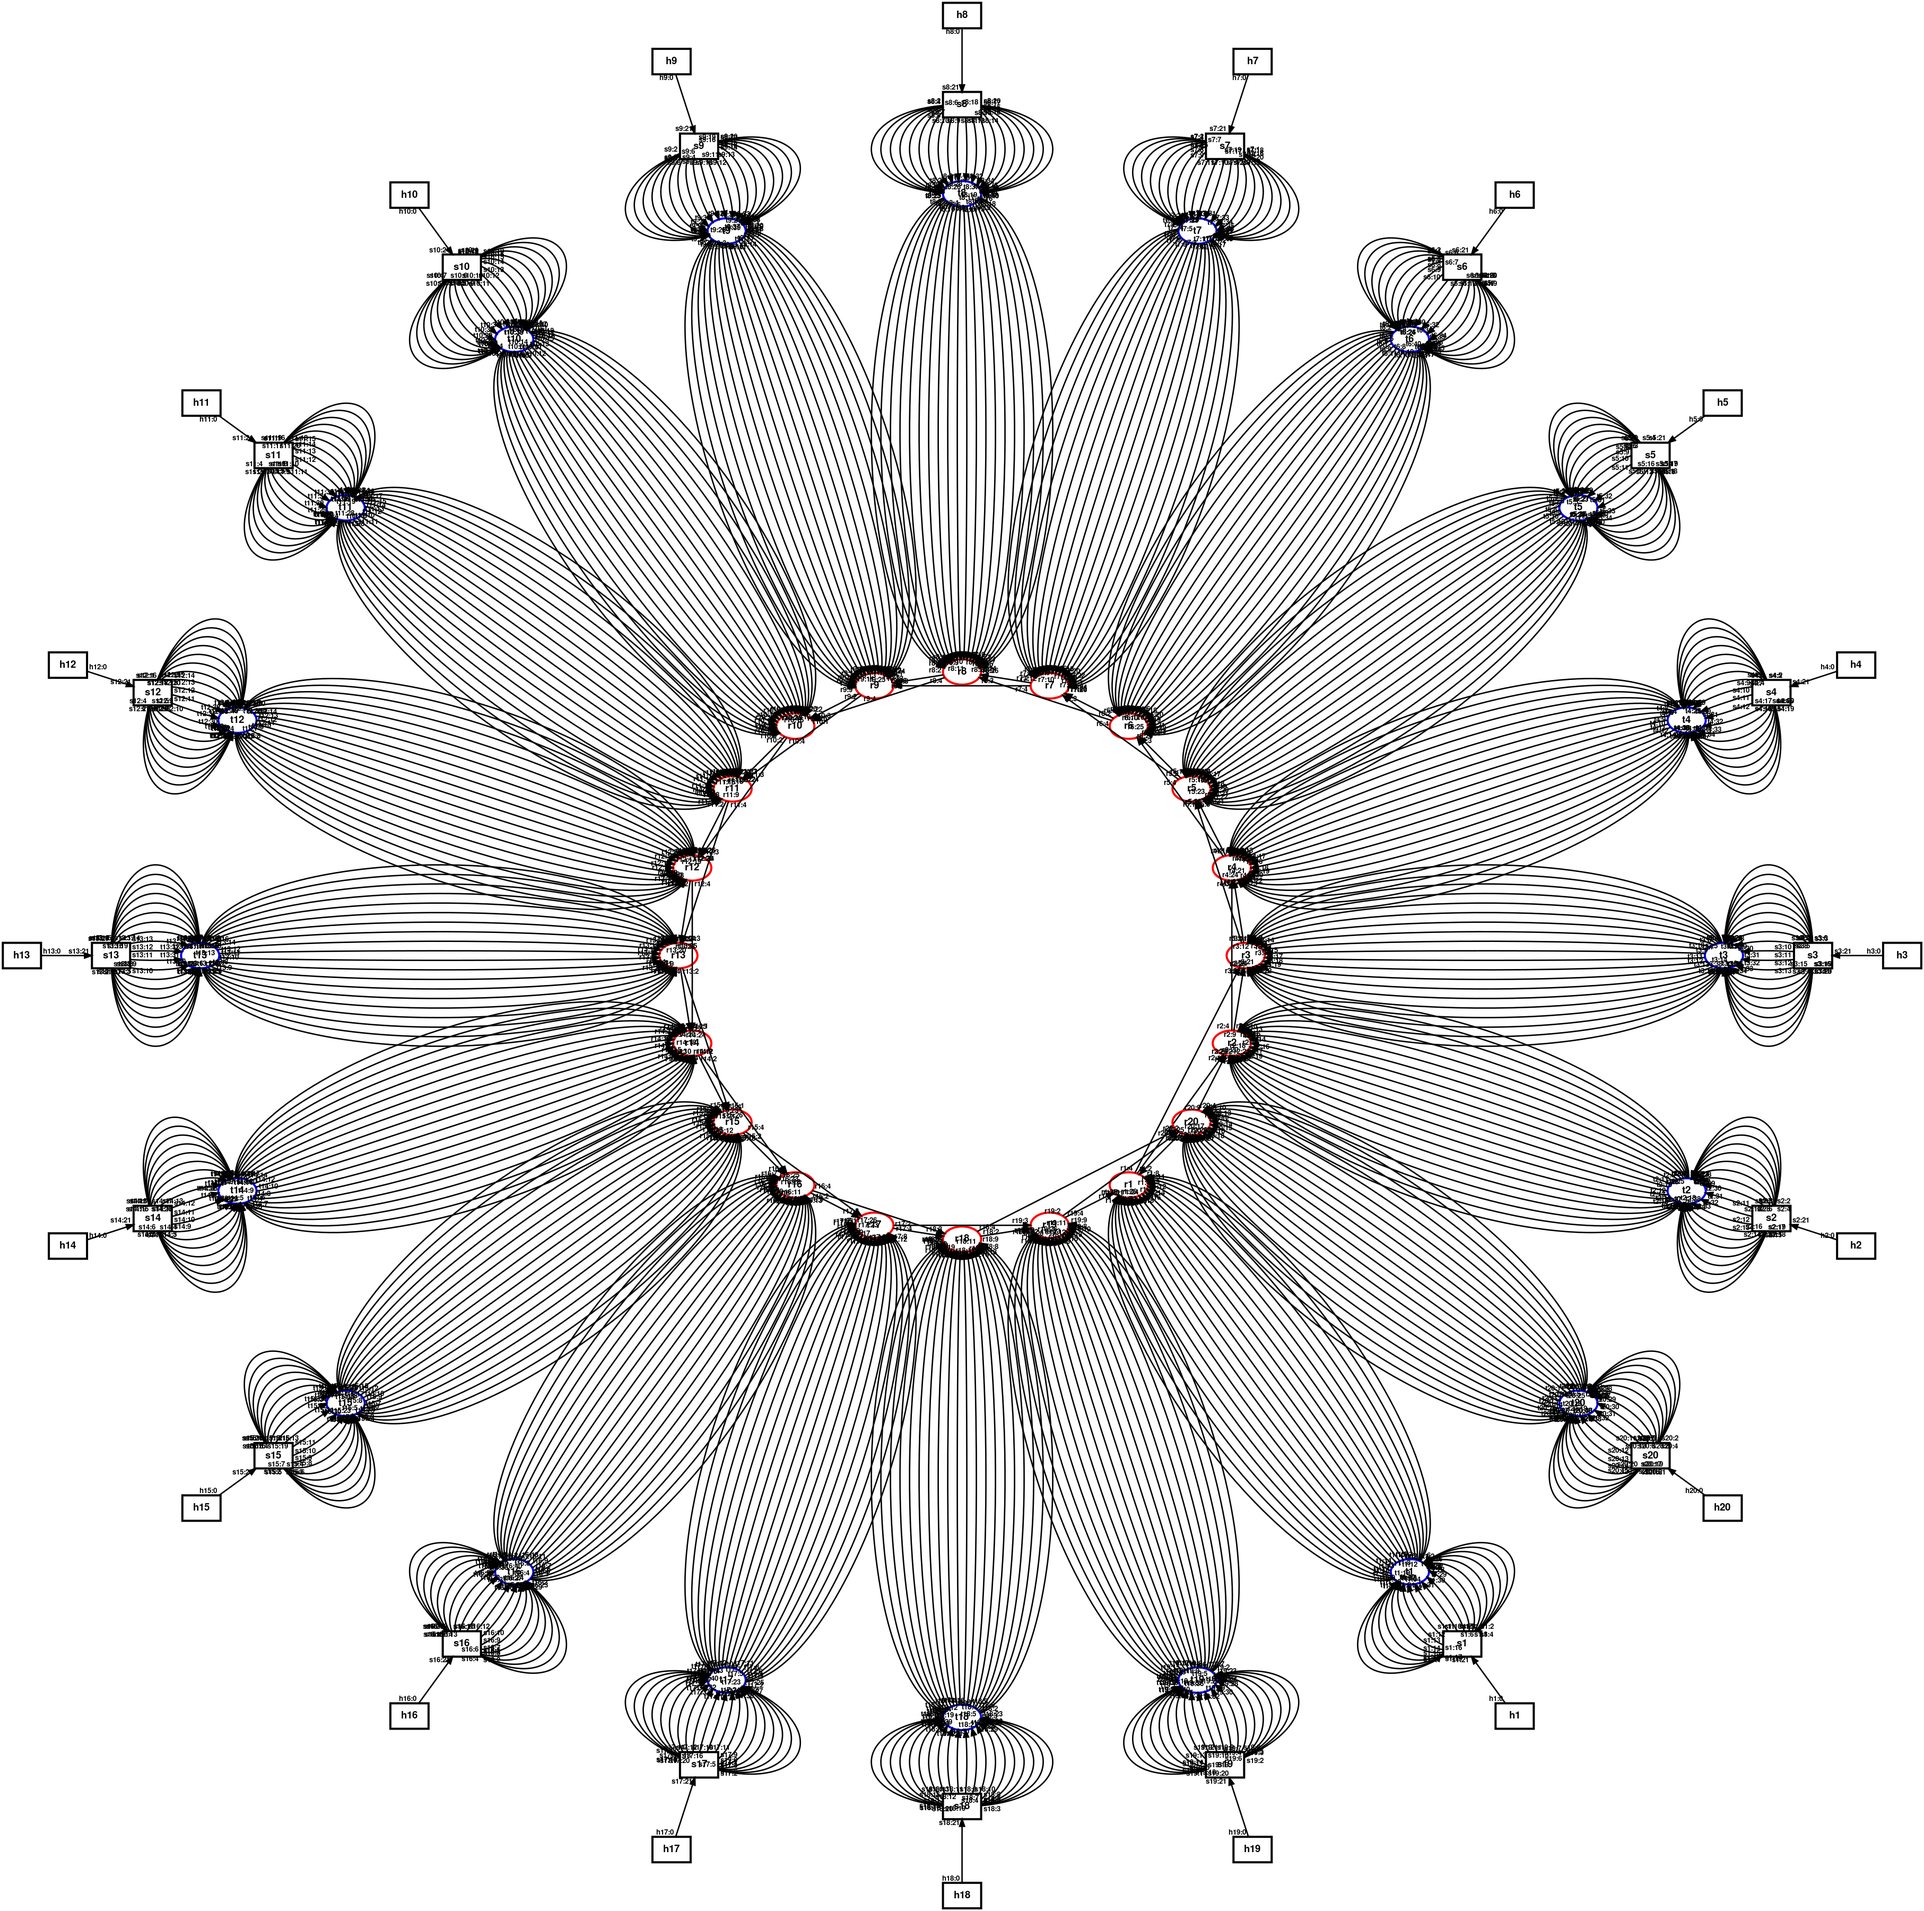
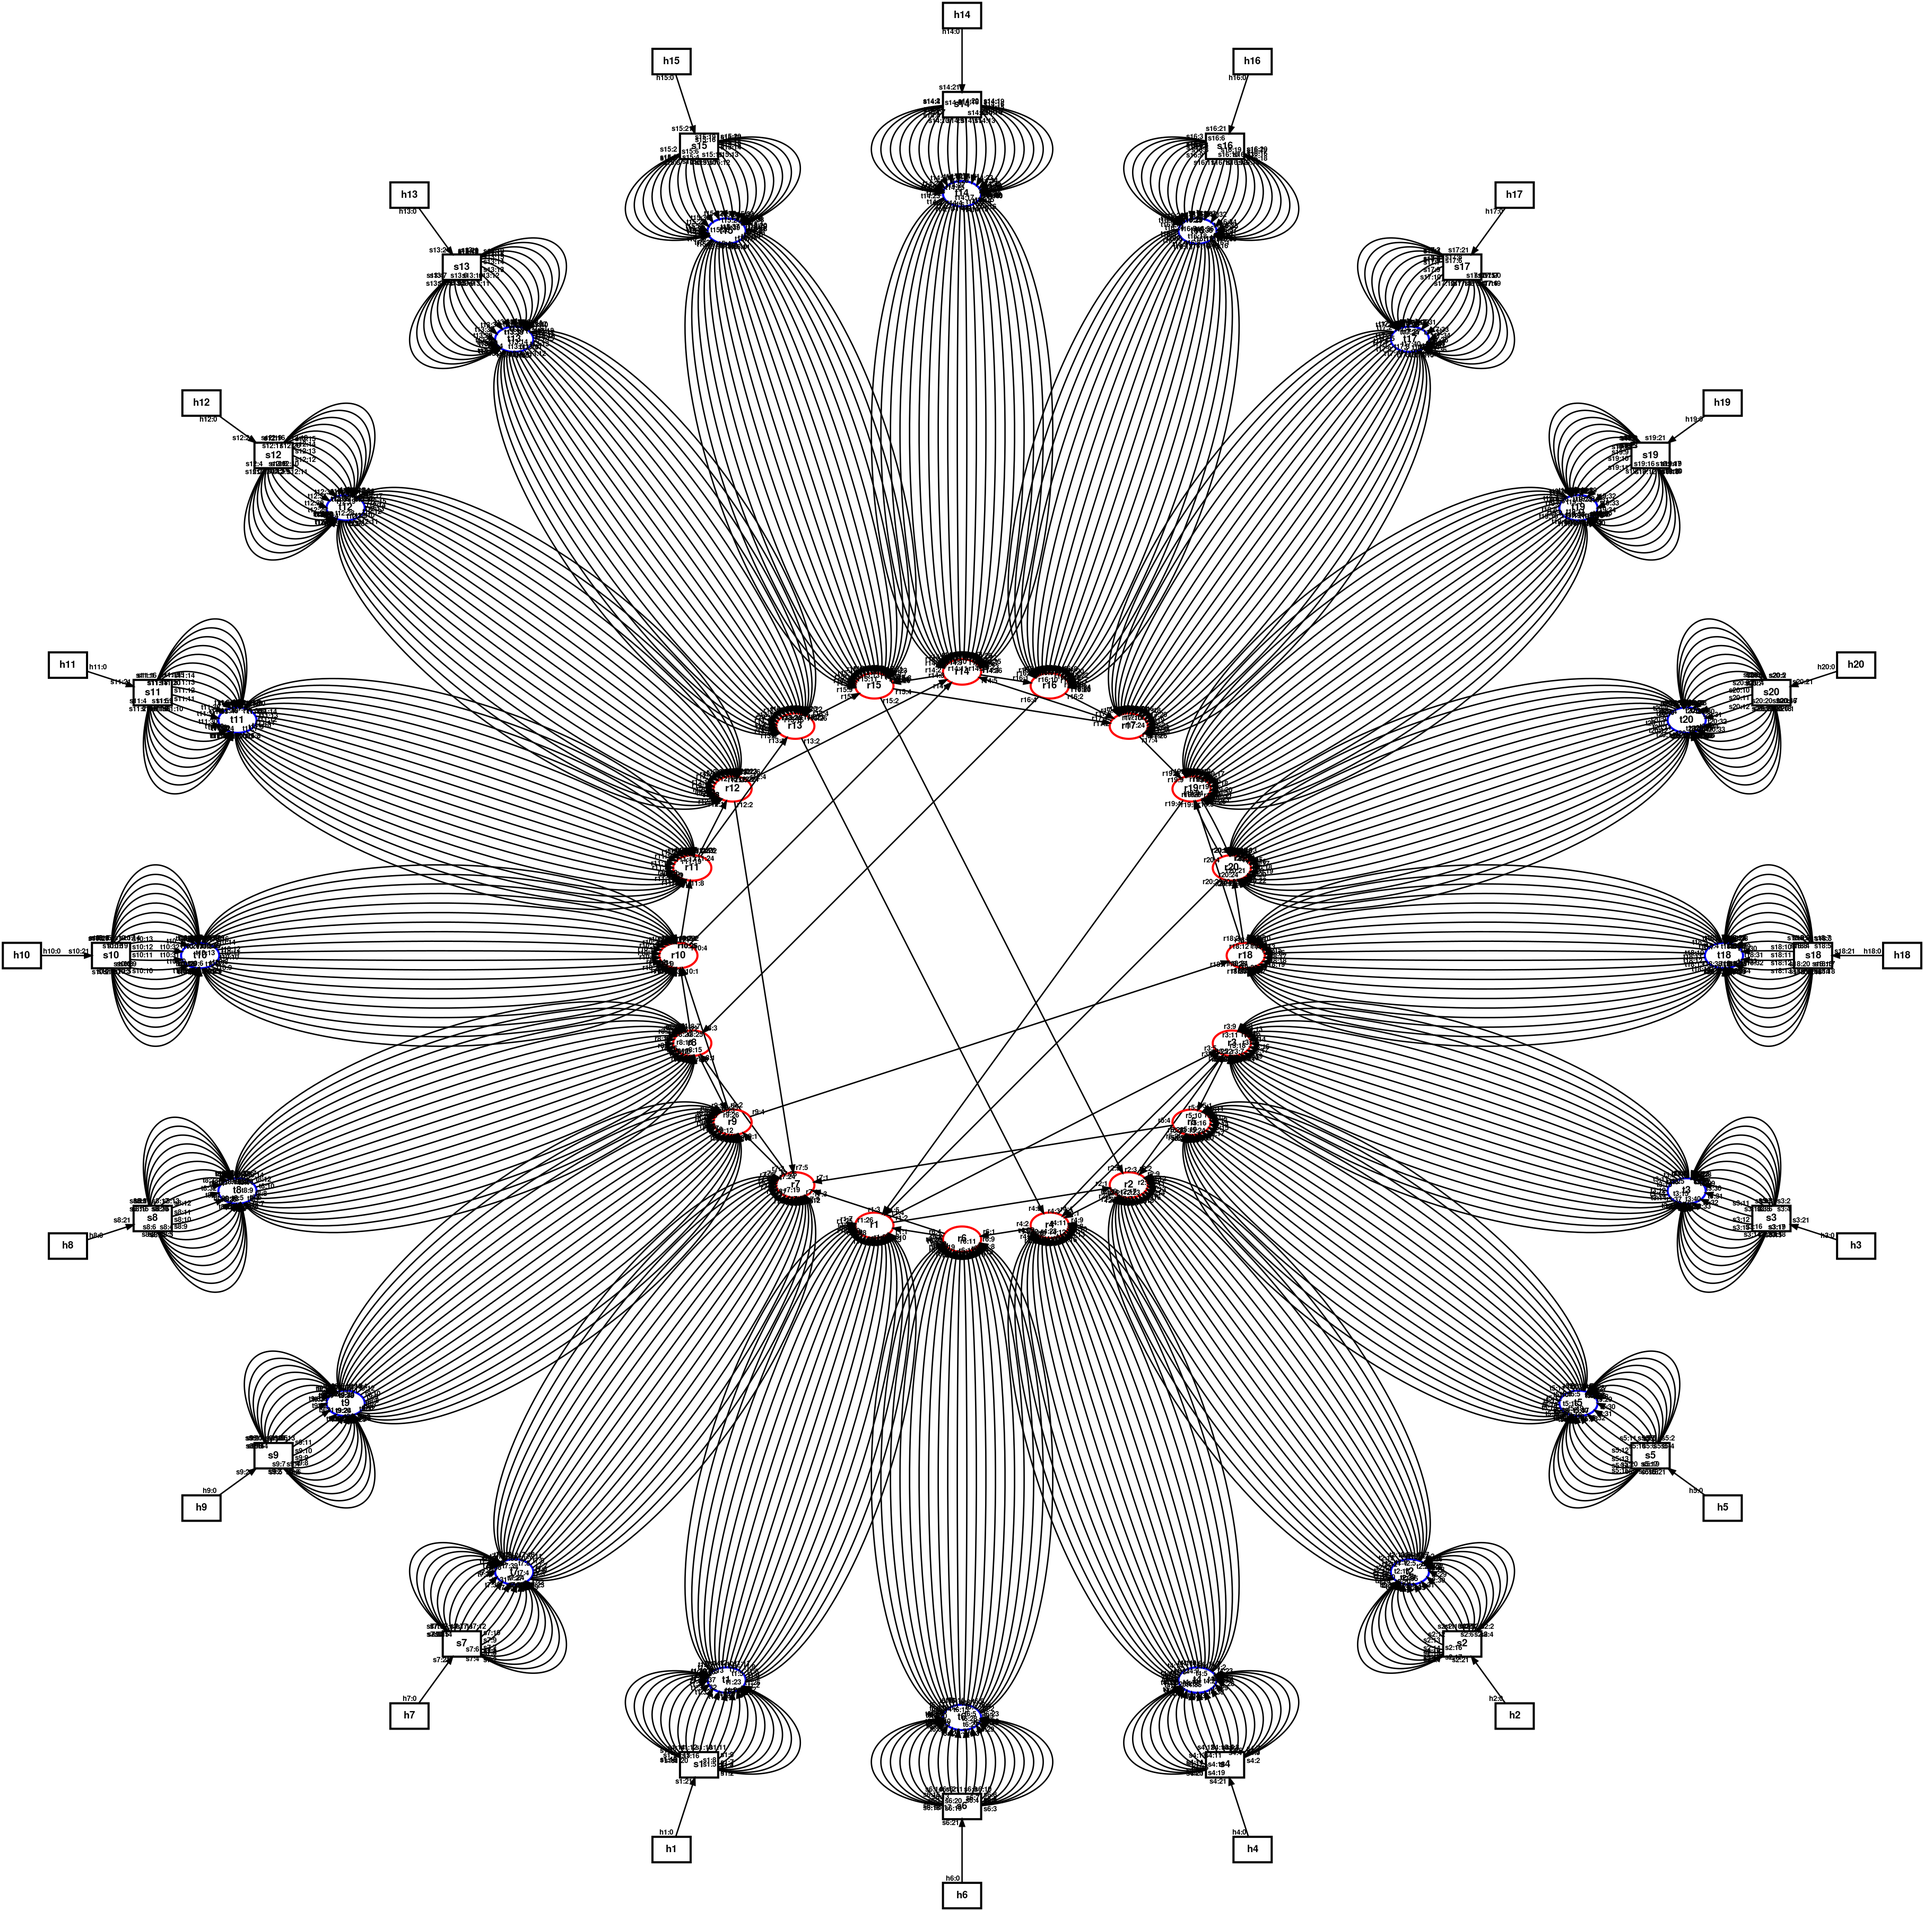
updated the algorithm for have a proper links

diff --git a/mnoptical/examples/ringtopo_watts_strogatz.py b/mnoptical/examples/ringtopo_watts_strogatz.py
@@ -23,6 +23,7 @@ from mininet.clean import cleanup
 
 from functools import partial
 from sys import argv
+import numpy as np
 
 
 class RingTopo(Topo):
@@ -40,11 +41,15 @@ class RingTopo(Topo):
        - N+1: local port, connected to host
     """
 
-    def build(self, power=0 * dBm, N=3, k=4):
+    def build(self, power=0 * dBm, N=3, k=4, p=0):
         """Create a 1-degree ROADM ring network, with the specified
            operational power and N ROADM/Terminal/Router/Host nodes"""
+        print(f"probability  - {p}")
         self.N = N
-        halfk = k//2
+        halfk = k // 2
+        links = {}
+        seed = np.random.RandomState(42)
+        nodes = list(range(1, N + 1))
         # Nodes/POPs: ROADM/Terminal/Router/Host
         rparams = {'monitor_mode': 'in'}
         transceivers = tuple((f'tx{ch}', power) for ch in range(1, N + 1))
@@ -63,19 +68,22 @@ class RingTopo(Topo):
         # Optical and packet links
         for i in range(1, N + 1):
             # Unidirectional roadm->roadm optical links
-            # outer_node = i + 2
-            # outer_node = outer_node if outer_node <= N else outer_node - N
-            # print(f"outer node - {i} - {outer_node}")
-            linein, lineout = 1, 2
             for j in range(1, halfk + 1):
                 neig_node = i % N + j
                 neig_node = neig_node if neig_node <= N else neig_node - N
-                print(f'r{i}', f'r{neig_node}', lineout, linein)
-                self.addLink(f'r{i}', f'r{neig_node}',
+                print(f'r{i}', f'r{neig_node}')
+                neigh_node = self.watts_strogatz_calc(i, neig_node, nodes, p, seed)
+                links[f'r{i}'] = links.get(f'r{i}', {'linein': 1, 'lineout': 2})
+                links[f'r{neigh_node}'] = links.get(f'r{neigh_node}', {'linein': 1, 'lineout': 2})
+                lineout = links[f'r{i}']['lineout']
+                linein = links[f'r{neigh_node}']['linein']
+                print(f'new r{i}', f'r{neigh_node}', lineout, linein)
+                self.addLink(f'r{i}', f'r{neigh_node}',
                              port1=lineout, port2=linein,
                              boost=boost, spans=spans, cls=OLink)  # ULink
-                linein += 2
-                lineout += 2
+                links[f'r{i}']['lineout'] += 2
+                links[f'r{neigh_node}']['linein'] += 2
+            lineout = links[f'r{i}']['lineout']
             for port in range(1, N + 1):
                 # Bidirectional terminal <-> roadm optical links
                 self.addLink(f't{i}', f'r{i}',
@@ -85,6 +93,19 @@ class RingTopo(Topo):
                 self.addLink(f's{i}', f't{i}', port1=port, port2=N + port)
             # Host-switch ethernet link
             self.addLink(f'h{i}', f's{i}', port2=N + 1)
+        print(f"links details - {links}")
+        
+    def watts_strogatz_calc(self, curr_node, neigh_node, nodes, p, seed):
+        print(f"watts -> {curr_node} {neigh_node}")
+        if seed.random() < p:
+            # to avoid loop connection
+            choices = [e for e in nodes if e not in (curr_node, neigh_node)]
+            new_neigh_node = seed.choice(choices)
+            print(f"watts new connection -> {curr_node} {new_neigh_node}")
+            return new_neigh_node
+        else:
+            print(f"no change for {curr_node}")
+            return neigh_node
 
 
 # Helper functions
@@ -201,13 +222,14 @@ if __name__ == '__main__':
     cleanup()  # Just in case!
     setLogLevel('info')
     if 'clean' in argv: exit(0)
-    topo = RingTopo(N=20)
+    topo = RingTopo(N=20, p=0.15)
     net = Mininet(topo=topo)
+    print("starting model --- ")
     restServer = RestServer(net)
     net.start()
     restServer.start()
     plotNet(net, outfile='ringtopo-watts_new.png', directed=True)
-    configNet(net)
+    # configNet(net)
     if 'test' in argv:
         test(net)
     else:
